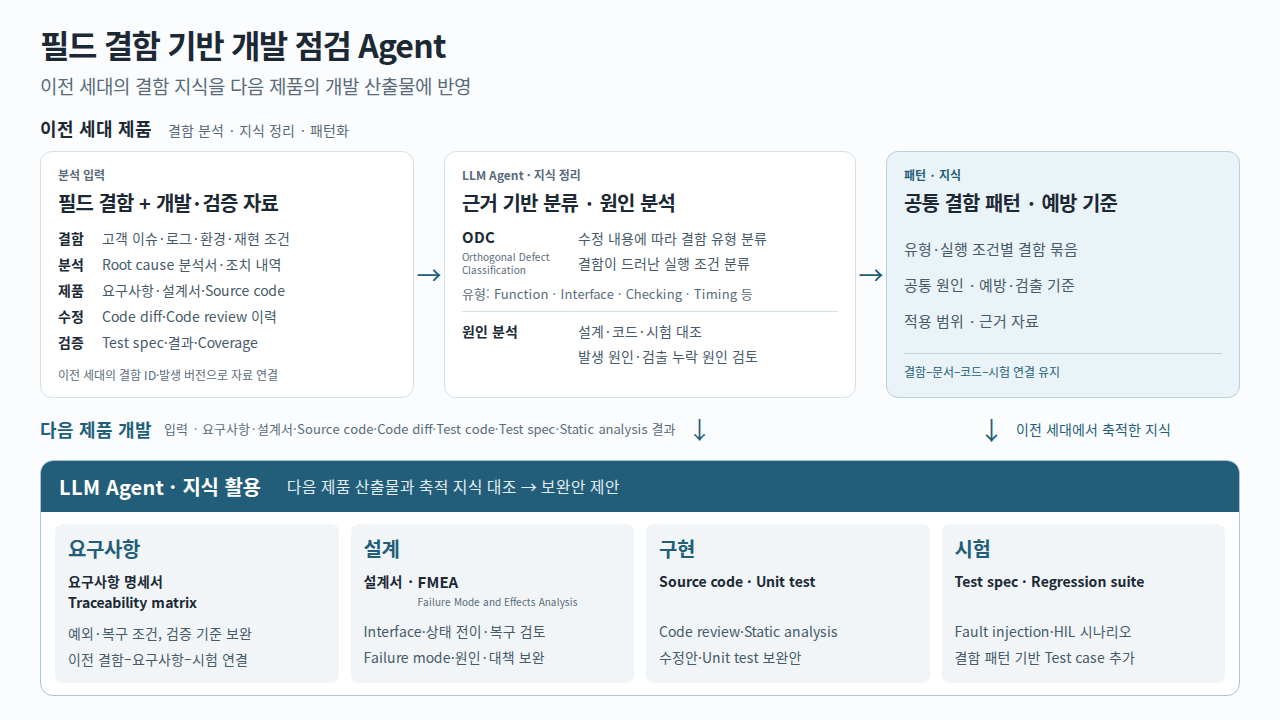
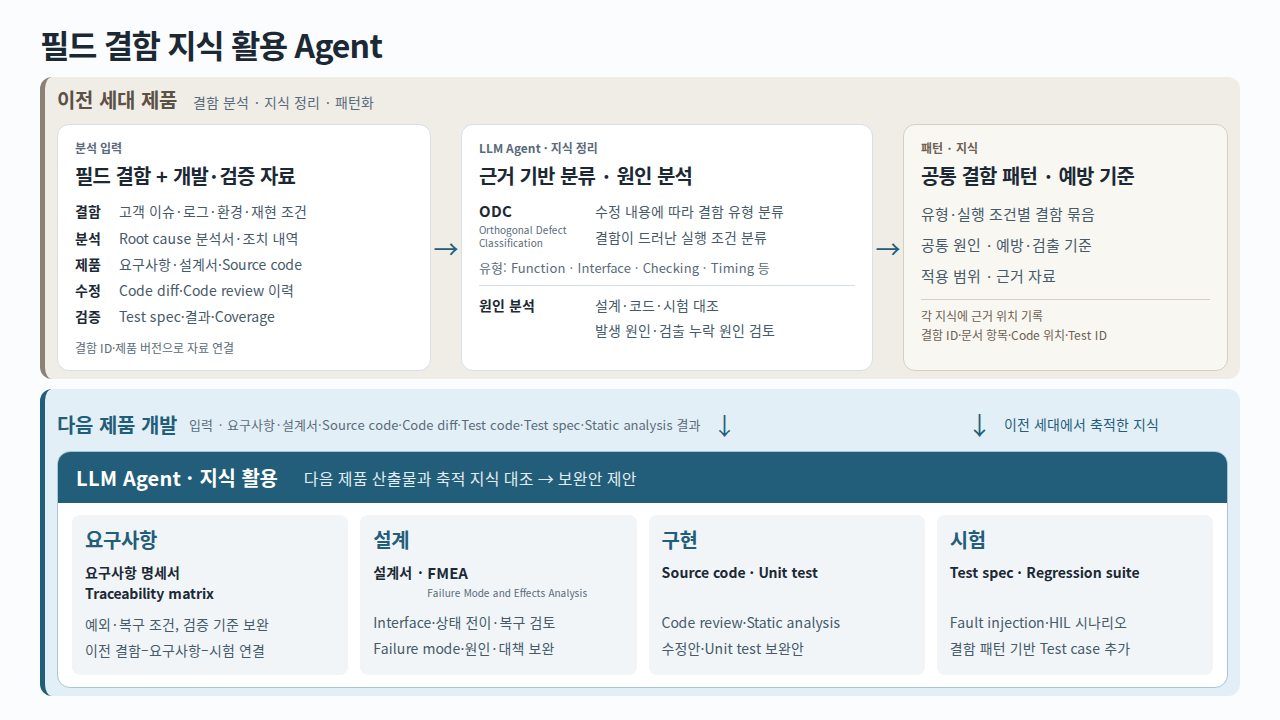
Clarify product generations and knowledge provenance

diff --git a/docs/index.html b/docs/index.html
@@ -1,6 +1,6 @@
 <!doctype html>
 <html lang="ko"><head><meta charset="UTF-8"><meta name="viewport" content="width=device-width,initial-scale=1">
-<meta name="color-scheme" content="light"><title>필드 결함 기반 개발 점검 Agent</title>
+<meta name="color-scheme" content="light"><title>필드 결함 지식 활용 Agent</title>
 <style>:root {
   --ink: #1c2935; --muted: #596b7a; --line: #d5e0e7;
   --paper: #fafcfd; --blue: #225e79; --blue-soft: #eaf3f7;
@@ -12,10 +12,12 @@ body { font-family: "Noto Sans CJK KR", "Noto Sans KR", "Malgun Gothic", sans-se
 .slide-shell { width: 100%; height: 100%; padding: 20px 40px; display: grid; grid-template-rows: 1fr; }
 .slide-body { min-height: 0; display: flex; flex-direction: column; justify-content: center; }
 .slide-body > * { flex-shrink: 0; }
-h1 { font-size: 32px; font-weight: 750; line-height: 1.3; letter-spacing: -.035em; margin: 0 0 7px; }
-.lead { font-size: 19px; color: var(--muted); line-height: 1.5; margin: 0 0 14px; }
+h1 { font-size: 32px; font-weight: 750; line-height: 1.3; letter-spacing: -.035em; margin: 0 0 12px; }
 h2, h3, p { margin: 0; }
-.generation-heading { display: flex; align-items: baseline; gap: 16px; margin-bottom: 9px; color: var(--ink); font-size: 18px; line-height: 1.5; }
+.generation-area { border-radius: 12px; padding: 8px 12px; border-left: 5px solid; }
+.previous-generation { background: #f0ede7; border-color: #8b8174; margin-bottom: 10px; }
+.next-generation { background: #e3eff6; border-color: var(--blue); }
+.generation-heading { display: flex; align-items: baseline; gap: 16px; margin-bottom: 9px; color: #5b5145; font-size: 20px; line-height: 1.5; }
 .generation-heading span { font-size: 14px; color: var(--muted); }
 .knowledge-flow { display: grid; grid-template-columns: 374px 30px 412px 30px 1fr; align-items: stretch; }
 .flow-card { background: white; border: 1px solid var(--line); border-radius: 12px; padding: 14px 17px; }
@@ -34,15 +36,15 @@ h2, h3, p { margin: 0; }
 .type-list { font-size: 13px; color: var(--muted); margin-bottom: 8px; }
 .cause-analysis { border-top: 1px solid var(--line); padding-top: 7px; display: flex; align-items: flex-start; gap: 16px; }
 .cause-analysis > b { min-width: 100px; line-height: 1.8; }
-.knowledge-card { background: var(--blue-soft); border-color: #b7d0dd; }
-.knowledge-card .card-label { color: var(--blue); }
-.knowledge-items { margin-top: 18px; display: grid; gap: 9px; }
+.knowledge-card { background: #f9f7f2; border-color: #d6cec1; }
+.knowledge-card .card-label { color: #6b6051; }
+.knowledge-items { margin-top: 10px; display: grid; gap: 4px; }
 .knowledge-items p { font-size: 15px; }
-.knowledge-evidence { margin-top: 19px; padding-top: 9px; border-top: 1px solid #bfd4df; color: var(--blue); font-size: 12px; }
+.knowledge-evidence { margin-top: 10px; padding-top: 7px; border-top: 1px solid #d6cec1; color: #6b6051; font-size: 12px; line-height: 1.55; }
 .flow-arrow { display: grid; place-items: center; color: var(--blue); font-size: 25px; }
-.application-inputs { height: 62px; display: grid; grid-template-columns: 1fr 330px; align-items: center; gap: 12px; }
+.application-inputs { height: 54px; display: grid; grid-template-columns: 1fr 330px; align-items: center; gap: 12px; }
 .current-input { display: flex; align-items: center; gap: 12px; font-size: 13px; color: var(--muted); }
-.current-input b { color: var(--blue); font-size: 18px; }
+.current-input b { color: var(--blue); font-size: 20px; }
 .current-input b, .current-input i { flex-shrink: 0; }
 .current-input span { min-width: 0; line-height: 1.5; }
 .current-input i { color: var(--blue); font-size: 24px; font-style: normal; }
@@ -62,11 +64,11 @@ h2, h3, p { margin: 0; }
 
 html,body{overflow:hidden;background:#111}.deck{position:fixed;inset:0;display:grid;place-items:center}.stage{position:relative;width:1280px;height:720px;transform-origin:center;background:var(--paper);overflow:hidden}.slide{display:none;position:absolute;inset:0;width:1280px;height:720px;background:var(--paper)}.slide.active{display:block}.controls{position:fixed;right:14px;bottom:12px;display:flex;gap:7px;opacity:.25;transition:opacity .2s}.controls:hover,.controls:focus-within{opacity:1}.controls button{border:0;border-radius:50%;width:34px;height:34px;color:white;background:#17212b;font:18px Arial;cursor:pointer}@media print{html,body{overflow:visible;background:white}.deck{position:static;display:block}.stage{transform:none!important;width:auto;height:auto;overflow:visible}.slide{display:block!important;position:relative;page-break-after:always;width:1280px;height:720px}.controls{display:none}@page{size:13.333333in 7.5in;margin:0}}
 </style></head><body><div class="deck"><div class="stage" id="stage">
-<section class="slide active" data-index="0" aria-label="필드 결함 기반 개발 점검 Agent">
+<section class="slide active" data-index="0" aria-label="필드 결함 지식 활용 Agent">
   <div class="slide-shell">
-    <main class="slide-body"><h1>필드 결함 기반 개발 점검 Agent</h1>
-<p class="lead">이전 세대의 결함 지식을 다음 제품의 개발 산출물에 반영</p>
+    <main class="slide-body"><h1>필드 결함 지식 활용 Agent</h1>
 
+<div class="generation-area previous-generation">
 <div class="generation-heading"><b>이전 세대 제품</b><span>결함 분석 · 지식 정리 · 패턴화</span></div>
 <div class="knowledge-flow" role="group" aria-label="이전 세대 제품의 결함 분석과 지식 축적">
   <div class="flow-card input-card">
@@ -79,7 +81,7 @@ html,body{overflow:hidden;background:#111}.deck{position:fixed;inset:0;display:g
       <div><b>수정</b><p>Code diff·Code review 이력</p></div>
       <div><b>검증</b><p>Test spec·결과·Coverage</p></div>
     </div>
-    <div class="input-key">이전 세대의 결함 ID·발생 버전으로 자료 연결</div>
+    <div class="input-key">결함 ID·제품 버전으로 자료 연결</div>
   </div>
   <div class="flow-arrow" aria-label="분석">→</div>
   <div class="flow-card analysis-card">
@@ -94,10 +96,12 @@ html,body{overflow:hidden;background:#111}.deck{position:fixed;inset:0;display:g
     <div class="card-label">패턴 · 지식</div>
     <h2>공통 결함 패턴 · 예방 기준</h2>
     <div class="knowledge-items"><p>유형·실행 조건별 결함 묶음</p><p>공통 원인 · 예방·검출 기준</p><p>적용 범위 · 근거 자료</p></div>
-    <div class="knowledge-evidence">결함–문서–코드–시험 연결 유지</div>
+    <div class="knowledge-evidence">각 지식에 근거 위치 기록<br>결함 ID·문서 항목·Code 위치·Test ID</div>
   </div>
 </div>
+</div>
 
+<div class="generation-area next-generation">
 <div class="application-inputs" role="group" aria-label="다음 제품의 개발 자료와 이전 세대에서 축적한 지식">
   <div class="current-input"><b>다음 제품 개발</b><span>입력 · 요구사항·설계서·Source code·Code diff·Test code·Test spec·Static analysis 결과</span><i>↓</i></div>
   <div class="knowledge-link"><span>↓</span> 이전 세대에서 축적한 지식</div>
@@ -111,12 +115,13 @@ html,body{overflow:hidden;background:#111}.deck{position:fixed;inset:0;display:g
     <div class="stage-card"><h3>구현</h3><div class="output-name">Source code · Unit test</div><p>Code review·Static analysis<br>수정안·Unit test 보완안</p></div>
     <div class="stage-card"><h3>시험</h3><div class="output-name">Test spec · Regression suite</div><p>Fault injection·HIL 시나리오<br>결함 패턴 기반 Test case 추가</p></div>
   </div>
+</div>
 </div></main>
   </div>
 </section></div></div>
 
 <script>(() => {
-  const title="필드 결함 기반 개발 점검 Agent";
+  const title="필드 결함 지식 활용 Agent";
   const slides=[...document.querySelectorAll('.slide')], stage=document.getElementById('stage'); let current=0;
   function resize(){const s=Math.min(innerWidth/1280,innerHeight/720);stage.style.transform='scale('+s+')'}
   function show(n,write=true){current=Math.max(0,Math.min(slides.length-1,n));slides.forEach((s,i)=>s.classList.toggle('active',i===current));if(write)history.replaceState(null,'','#'+(current+1));document.title=(current+1)+'/'+slides.length+' · '+title}

diff --git a/release/presentation.html b/release/presentation.html
@@ -1,6 +1,6 @@
 <!doctype html>
 <html lang="ko"><head><meta charset="UTF-8"><meta name="viewport" content="width=device-width,initial-scale=1">
-<meta name="color-scheme" content="light"><title>필드 결함 기반 개발 점검 Agent</title>
+<meta name="color-scheme" content="light"><title>필드 결함 지식 활용 Agent</title>
 <style>:root {
   --ink: #1c2935; --muted: #596b7a; --line: #d5e0e7;
   --paper: #fafcfd; --blue: #225e79; --blue-soft: #eaf3f7;
@@ -12,10 +12,12 @@ body { font-family: "Noto Sans CJK KR", "Noto Sans KR", "Malgun Gothic", sans-se
 .slide-shell { width: 100%; height: 100%; padding: 20px 40px; display: grid; grid-template-rows: 1fr; }
 .slide-body { min-height: 0; display: flex; flex-direction: column; justify-content: center; }
 .slide-body > * { flex-shrink: 0; }
-h1 { font-size: 32px; font-weight: 750; line-height: 1.3; letter-spacing: -.035em; margin: 0 0 7px; }
-.lead { font-size: 19px; color: var(--muted); line-height: 1.5; margin: 0 0 14px; }
+h1 { font-size: 32px; font-weight: 750; line-height: 1.3; letter-spacing: -.035em; margin: 0 0 12px; }
 h2, h3, p { margin: 0; }
-.generation-heading { display: flex; align-items: baseline; gap: 16px; margin-bottom: 9px; color: var(--ink); font-size: 18px; line-height: 1.5; }
+.generation-area { border-radius: 12px; padding: 8px 12px; border-left: 5px solid; }
+.previous-generation { background: #f0ede7; border-color: #8b8174; margin-bottom: 10px; }
+.next-generation { background: #e3eff6; border-color: var(--blue); }
+.generation-heading { display: flex; align-items: baseline; gap: 16px; margin-bottom: 9px; color: #5b5145; font-size: 20px; line-height: 1.5; }
 .generation-heading span { font-size: 14px; color: var(--muted); }
 .knowledge-flow { display: grid; grid-template-columns: 374px 30px 412px 30px 1fr; align-items: stretch; }
 .flow-card { background: white; border: 1px solid var(--line); border-radius: 12px; padding: 14px 17px; }
@@ -34,15 +36,15 @@ h2, h3, p { margin: 0; }
 .type-list { font-size: 13px; color: var(--muted); margin-bottom: 8px; }
 .cause-analysis { border-top: 1px solid var(--line); padding-top: 7px; display: flex; align-items: flex-start; gap: 16px; }
 .cause-analysis > b { min-width: 100px; line-height: 1.8; }
-.knowledge-card { background: var(--blue-soft); border-color: #b7d0dd; }
-.knowledge-card .card-label { color: var(--blue); }
-.knowledge-items { margin-top: 18px; display: grid; gap: 9px; }
+.knowledge-card { background: #f9f7f2; border-color: #d6cec1; }
+.knowledge-card .card-label { color: #6b6051; }
+.knowledge-items { margin-top: 10px; display: grid; gap: 4px; }
 .knowledge-items p { font-size: 15px; }
-.knowledge-evidence { margin-top: 19px; padding-top: 9px; border-top: 1px solid #bfd4df; color: var(--blue); font-size: 12px; }
+.knowledge-evidence { margin-top: 10px; padding-top: 7px; border-top: 1px solid #d6cec1; color: #6b6051; font-size: 12px; line-height: 1.55; }
 .flow-arrow { display: grid; place-items: center; color: var(--blue); font-size: 25px; }
-.application-inputs { height: 62px; display: grid; grid-template-columns: 1fr 330px; align-items: center; gap: 12px; }
+.application-inputs { height: 54px; display: grid; grid-template-columns: 1fr 330px; align-items: center; gap: 12px; }
 .current-input { display: flex; align-items: center; gap: 12px; font-size: 13px; color: var(--muted); }
-.current-input b { color: var(--blue); font-size: 18px; }
+.current-input b { color: var(--blue); font-size: 20px; }
 .current-input b, .current-input i { flex-shrink: 0; }
 .current-input span { min-width: 0; line-height: 1.5; }
 .current-input i { color: var(--blue); font-size: 24px; font-style: normal; }
@@ -62,11 +64,11 @@ h2, h3, p { margin: 0; }
 
 html,body{overflow:hidden;background:#111}.deck{position:fixed;inset:0;display:grid;place-items:center}.stage{position:relative;width:1280px;height:720px;transform-origin:center;background:var(--paper);overflow:hidden}.slide{display:none;position:absolute;inset:0;width:1280px;height:720px;background:var(--paper)}.slide.active{display:block}.controls{position:fixed;right:14px;bottom:12px;display:flex;gap:7px;opacity:.25;transition:opacity .2s}.controls:hover,.controls:focus-within{opacity:1}.controls button{border:0;border-radius:50%;width:34px;height:34px;color:white;background:#17212b;font:18px Arial;cursor:pointer}@media print{html,body{overflow:visible;background:white}.deck{position:static;display:block}.stage{transform:none!important;width:auto;height:auto;overflow:visible}.slide{display:block!important;position:relative;page-break-after:always;width:1280px;height:720px}.controls{display:none}@page{size:13.333333in 7.5in;margin:0}}
 </style></head><body><div class="deck"><div class="stage" id="stage">
-<section class="slide active" data-index="0" aria-label="필드 결함 기반 개발 점검 Agent">
+<section class="slide active" data-index="0" aria-label="필드 결함 지식 활용 Agent">
   <div class="slide-shell">
-    <main class="slide-body"><h1>필드 결함 기반 개발 점검 Agent</h1>
-<p class="lead">이전 세대의 결함 지식을 다음 제품의 개발 산출물에 반영</p>
+    <main class="slide-body"><h1>필드 결함 지식 활용 Agent</h1>
 
+<div class="generation-area previous-generation">
 <div class="generation-heading"><b>이전 세대 제품</b><span>결함 분석 · 지식 정리 · 패턴화</span></div>
 <div class="knowledge-flow" role="group" aria-label="이전 세대 제품의 결함 분석과 지식 축적">
   <div class="flow-card input-card">
@@ -79,7 +81,7 @@ html,body{overflow:hidden;background:#111}.deck{position:fixed;inset:0;display:g
       <div><b>수정</b><p>Code diff·Code review 이력</p></div>
       <div><b>검증</b><p>Test spec·결과·Coverage</p></div>
     </div>
-    <div class="input-key">이전 세대의 결함 ID·발생 버전으로 자료 연결</div>
+    <div class="input-key">결함 ID·제품 버전으로 자료 연결</div>
   </div>
   <div class="flow-arrow" aria-label="분석">→</div>
   <div class="flow-card analysis-card">
@@ -94,10 +96,12 @@ html,body{overflow:hidden;background:#111}.deck{position:fixed;inset:0;display:g
     <div class="card-label">패턴 · 지식</div>
     <h2>공통 결함 패턴 · 예방 기준</h2>
     <div class="knowledge-items"><p>유형·실행 조건별 결함 묶음</p><p>공통 원인 · 예방·검출 기준</p><p>적용 범위 · 근거 자료</p></div>
-    <div class="knowledge-evidence">결함–문서–코드–시험 연결 유지</div>
+    <div class="knowledge-evidence">각 지식에 근거 위치 기록<br>결함 ID·문서 항목·Code 위치·Test ID</div>
   </div>
 </div>
+</div>
 
+<div class="generation-area next-generation">
 <div class="application-inputs" role="group" aria-label="다음 제품의 개발 자료와 이전 세대에서 축적한 지식">
   <div class="current-input"><b>다음 제품 개발</b><span>입력 · 요구사항·설계서·Source code·Code diff·Test code·Test spec·Static analysis 결과</span><i>↓</i></div>
   <div class="knowledge-link"><span>↓</span> 이전 세대에서 축적한 지식</div>
@@ -111,12 +115,13 @@ html,body{overflow:hidden;background:#111}.deck{position:fixed;inset:0;display:g
     <div class="stage-card"><h3>구현</h3><div class="output-name">Source code · Unit test</div><p>Code review·Static analysis<br>수정안·Unit test 보완안</p></div>
     <div class="stage-card"><h3>시험</h3><div class="output-name">Test spec · Regression suite</div><p>Fault injection·HIL 시나리오<br>결함 패턴 기반 Test case 추가</p></div>
   </div>
+</div>
 </div></main>
   </div>
 </section></div></div>
 
 <script>(() => {
-  const title="필드 결함 기반 개발 점검 Agent";
+  const title="필드 결함 지식 활용 Agent";
   const slides=[...document.querySelectorAll('.slide')], stage=document.getElementById('stage'); let current=0;
   function resize(){const s=Math.min(innerWidth/1280,innerHeight/720);stage.style.transform='scale('+s+')'}
   function show(n,write=true){current=Math.max(0,Math.min(slides.length-1,n));slides.forEach((s,i)=>s.classList.toggle('active',i===current));if(write)history.replaceState(null,'','#'+(current+1));document.title=(current+1)+'/'+slides.length+' · '+title}

diff --git a/styles/index.css b/styles/index.css
@@ -9,10 +9,12 @@ body { font-family: "Noto Sans CJK KR", "Noto Sans KR", "Malgun Gothic", sans-se
 .slide-shell { width: 100%; height: 100%; padding: 20px 40px; display: grid; grid-template-rows: 1fr; }
 .slide-body { min-height: 0; display: flex; flex-direction: column; justify-content: center; }
 .slide-body > * { flex-shrink: 0; }
-h1 { font-size: 32px; font-weight: 750; line-height: 1.3; letter-spacing: -.035em; margin: 0 0 7px; }
-.lead { font-size: 19px; color: var(--muted); line-height: 1.5; margin: 0 0 14px; }
+h1 { font-size: 32px; font-weight: 750; line-height: 1.3; letter-spacing: -.035em; margin: 0 0 12px; }
 h2, h3, p { margin: 0; }
-.generation-heading { display: flex; align-items: baseline; gap: 16px; margin-bottom: 9px; color: var(--ink); font-size: 18px; line-height: 1.5; }
+.generation-area { border-radius: 12px; padding: 8px 12px; border-left: 5px solid; }
+.previous-generation { background: #f0ede7; border-color: #8b8174; margin-bottom: 10px; }
+.next-generation { background: #e3eff6; border-color: var(--blue); }
+.generation-heading { display: flex; align-items: baseline; gap: 16px; margin-bottom: 9px; color: #5b5145; font-size: 20px; line-height: 1.5; }
 .generation-heading span { font-size: 14px; color: var(--muted); }
 .knowledge-flow { display: grid; grid-template-columns: 374px 30px 412px 30px 1fr; align-items: stretch; }
 .flow-card { background: white; border: 1px solid var(--line); border-radius: 12px; padding: 14px 17px; }
@@ -31,15 +33,15 @@ h2, h3, p { margin: 0; }
 .type-list { font-size: 13px; color: var(--muted); margin-bottom: 8px; }
 .cause-analysis { border-top: 1px solid var(--line); padding-top: 7px; display: flex; align-items: flex-start; gap: 16px; }
 .cause-analysis > b { min-width: 100px; line-height: 1.8; }
-.knowledge-card { background: var(--blue-soft); border-color: #b7d0dd; }
-.knowledge-card .card-label { color: var(--blue); }
-.knowledge-items { margin-top: 18px; display: grid; gap: 9px; }
+.knowledge-card { background: #f9f7f2; border-color: #d6cec1; }
+.knowledge-card .card-label { color: #6b6051; }
+.knowledge-items { margin-top: 10px; display: grid; gap: 4px; }
 .knowledge-items p { font-size: 15px; }
-.knowledge-evidence { margin-top: 19px; padding-top: 9px; border-top: 1px solid #bfd4df; color: var(--blue); font-size: 12px; }
+.knowledge-evidence { margin-top: 10px; padding-top: 7px; border-top: 1px solid #d6cec1; color: #6b6051; font-size: 12px; line-height: 1.55; }
 .flow-arrow { display: grid; place-items: center; color: var(--blue); font-size: 25px; }
-.application-inputs { height: 62px; display: grid; grid-template-columns: 1fr 330px; align-items: center; gap: 12px; }
+.application-inputs { height: 54px; display: grid; grid-template-columns: 1fr 330px; align-items: center; gap: 12px; }
 .current-input { display: flex; align-items: center; gap: 12px; font-size: 13px; color: var(--muted); }
-.current-input b { color: var(--blue); font-size: 18px; }
+.current-input b { color: var(--blue); font-size: 20px; }
 .current-input b, .current-input i { flex-shrink: 0; }
 .current-input span { min-width: 0; line-height: 1.5; }
 .current-input i { color: var(--blue); font-size: 24px; font-style: normal; }

diff --git a/slides.md b/slides.md
@@ -1,6 +1,6 @@
 ---
 theme: default
-title: 필드 결함 기반 개발 점검 Agent
+title: 필드 결함 지식 활용 Agent
 info: 임원 보고 · 1분
 canvasWidth: 1280
 drawings:
@@ -10,9 +10,9 @@ mdc: true
 layout: deck
 ---
 
-<h1>필드 결함 기반 개발 점검 Agent</h1>
-<p class="lead">이전 세대의 결함 지식을 다음 제품의 개발 산출물에 반영</p>
+<h1>필드 결함 지식 활용 Agent</h1>
 
+<div class="generation-area previous-generation">
 <div class="generation-heading"><b>이전 세대 제품</b><span>결함 분석 · 지식 정리 · 패턴화</span></div>
 <div class="knowledge-flow" role="group" aria-label="이전 세대 제품의 결함 분석과 지식 축적">
   <div class="flow-card input-card">
@@ -25,7 +25,7 @@ layout: deck
       <div><b>수정</b><p>Code diff·Code review 이력</p></div>
       <div><b>검증</b><p>Test spec·결과·Coverage</p></div>
     </div>
-    <div class="input-key">이전 세대의 결함 ID·발생 버전으로 자료 연결</div>
+    <div class="input-key">결함 ID·제품 버전으로 자료 연결</div>
   </div>
   <div class="flow-arrow" aria-label="분석">→</div>
   <div class="flow-card analysis-card">
@@ -40,10 +40,12 @@ layout: deck
     <div class="card-label">패턴 · 지식</div>
     <h2>공통 결함 패턴 · 예방 기준</h2>
     <div class="knowledge-items"><p>유형·실행 조건별 결함 묶음</p><p>공통 원인 · 예방·검출 기준</p><p>적용 범위 · 근거 자료</p></div>
-    <div class="knowledge-evidence">결함–문서–코드–시험 연결 유지</div>
+    <div class="knowledge-evidence">각 지식에 근거 위치 기록<br>결함 ID·문서 항목·Code 위치·Test ID</div>
   </div>
 </div>
+</div>
 
+<div class="generation-area next-generation">
 <div class="application-inputs" role="group" aria-label="다음 제품의 개발 자료와 이전 세대에서 축적한 지식">
   <div class="current-input"><b>다음 제품 개발</b><span>입력 · 요구사항·설계서·Source code·Code diff·Test code·Test spec·Static analysis 결과</span><i>↓</i></div>
   <div class="knowledge-link"><span>↓</span> 이전 세대에서 축적한 지식</div>
@@ -57,4 +59,5 @@ layout: deck
     <div class="stage-card"><h3>구현</h3><div class="output-name">Source code · Unit test</div><p>Code review·Static analysis<br>수정안·Unit test 보완안</p></div>
     <div class="stage-card"><h3>시험</h3><div class="output-name">Test spec · Regression suite</div><p>Fault injection·HIL 시나리오<br>결함 패턴 기반 Test case 추가</p></div>
   </div>
+</div>
 </div>

diff --git a/README.md b/README.md
@@ -1,4 +1,4 @@
-# 필드 결함 기반 개발 점검 Agent
+# 필드 결함 지식 활용 Agent
 
 임베디드 소프트웨어 개발을 위한 한 장 HTML 발표 자료입니다. 약 1분 발표를 기준으로 구성했습니다.
 
